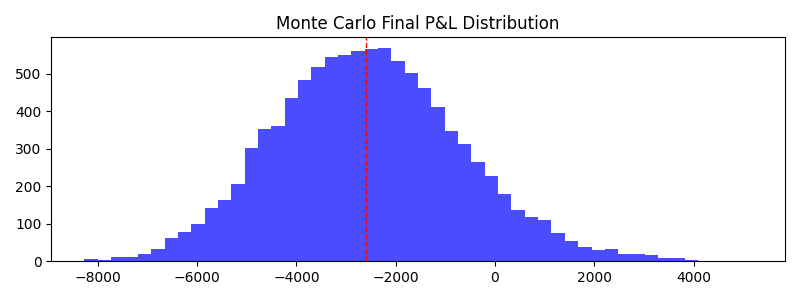
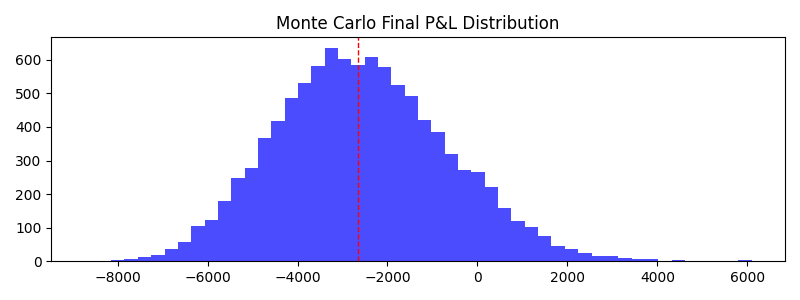
refactor: restructure codebase into python modules for readability

diff --git a/refactor.py b/refactor.py
@@ -1,0 +1,51 @@
+import os
+import shutil
+from pathlib import Path
+
+dirs = ["src/core", "src/free_tier", "src/tier1_edge", "src/tier2_pattern", "src/tier3_coaching", "src/reports", "data"]
+for d in dirs:
+    os.makedirs(d, exist_ok=True)
+    Path(f"{d}/__init__.py").touch()
+Path("src/__init__.py").touch()
+
+try: shutil.move("data.txt", "data/data.txt")
+except: pass
+try: shutil.move("rules.json", "data/rules.json")
+except: pass
+
+mapping = {
+    "load_trades.py": "src/core/load_trades.py",
+    "free_pnl_summary.py": "src/free_tier/pnl_summary.py",
+    "free_direction_split.py": "src/free_tier/direction_split.py",
+    "free_session_heatmap.py": "src/free_tier/session_heatmap.py",
+    "t1_hold_time.py": "src/tier1_edge/hold_time.py",
+    "t1_entry_quality.py": "src/tier1_edge/entry_quality.py",
+    "t1_streaks.py": "src/tier1_edge/streaks.py",
+    "t2_setup_detector.py": "src/tier2_pattern/setup_detector.py",
+    "t2_tilt_detection.py": "src/tier2_pattern/tilt_detection.py",
+    "t2_weekly_digest.py": "src/tier2_pattern/weekly_digest.py",
+    "t3_regime.py": "src/tier3_coaching/regime.py",
+    "t3_monte_carlo.py": "src/tier3_coaching/monte_carlo.py",
+    "t3_rule_alerts.py": "src/tier3_coaching/rule_alerts.py",
+    "generate_report.py": "src/reports/generate_report.py",
+    "generate_full_report.py": "src/reports/generate_full_report.py"
+}
+
+import_block = """import sys
+import os
+sys.path.append(os.path.dirname(os.path.dirname(os.path.abspath(__file__))))
+from core.load_trades import load_and_preprocess_data"""
+
+for src_file, dest_file in mapping.items():
+    if not os.path.exists(src_file): continue
+    
+    with open(src_file, "r") as f:
+        content = f.read()
+        
+    if "load_trades" in content and src_file != "load_trades.py":
+        content = content.replace("from load_trades import load_and_preprocess_data", import_block)
+        
+    with open(dest_file, "w") as f:
+        f.write(content)
+        
+    os.remove(src_file)

diff --git a/master_report.tex b/master_report.tex
@@ -171,8 +171,8 @@ Simulating 10,000 paths of 100 trades based on your historical P\&L distribution
 
 \vspace{0.5em}
 \begin{tabular}{l l l l}
-\textbf{Median Final P\&L:} & \$-2599.93 & \textbf{5th Percentile:} & \$-5515.86 \\
-\textbf{95th Percentile:} & \$678.32 & \textbf{Prob of Ruin:} & \textbf{\color{badred}91.6\%} \\
+\textbf{Median Final P\&L:} & \$-2649.35 & \textbf{5th Percentile:} & \$-5543.41 \\
+\textbf{95th Percentile:} & \$702.38 & \textbf{Prob of Ruin:} & \textbf{\color{badred}91.6\%} \\
 \end{tabular}
 \begin{center}
 \includegraphics[width=0.75\textwidth]{monte_carlo.png}

diff --git a/src/reports/generate_full_report.py b/src/reports/generate_full_report.py
@@ -4,7 +4,10 @@ import pandas as pd
 import numpy as np
 import seaborn as sns
 import matplotlib.pyplot as plt
-from load_trades import load_and_preprocess_data
+import sys
+import os
+sys.path.append(os.path.dirname(os.path.dirname(os.path.abspath(__file__))))
+from core.load_trades import load_and_preprocess_data
 import jinja2
 import subprocess
 import os

diff --git a/src/free_tier/session_heatmap.py b/src/free_tier/session_heatmap.py
@@ -2,7 +2,10 @@ import argparse
 import pandas as pd
 import seaborn as sns
 import matplotlib.pyplot as plt
-from load_trades import load_and_preprocess_data
+import sys
+import os
+sys.path.append(os.path.dirname(os.path.dirname(os.path.abspath(__file__))))
+from core.load_trades import load_and_preprocess_data
 from tabulate import tabulate
 
 def main():

diff --git a/src/tier3_coaching/monte_carlo.py b/src/tier3_coaching/monte_carlo.py
@@ -2,7 +2,10 @@ import argparse
 import pandas as pd
 import numpy as np
 import matplotlib.pyplot as plt
-from load_trades import load_and_preprocess_data
+import sys
+import os
+sys.path.append(os.path.dirname(os.path.dirname(os.path.abspath(__file__))))
+from core.load_trades import load_and_preprocess_data
 from tabulate import tabulate
 
 def main():

diff --git a/src/tier3_coaching/regime.py b/src/tier3_coaching/regime.py
@@ -1,6 +1,9 @@
 import argparse
 import pandas as pd
-from load_trades import load_and_preprocess_data
+import sys
+import os
+sys.path.append(os.path.dirname(os.path.dirname(os.path.abspath(__file__))))
+from core.load_trades import load_and_preprocess_data
 from tabulate import tabulate
 
 def classify_regime(sdf, all_time_variance):

diff --git a/src/tier1_edge/streaks.py b/src/tier1_edge/streaks.py
@@ -1,6 +1,9 @@
 import argparse
 import pandas as pd
-from load_trades import load_and_preprocess_data
+import sys
+import os
+sys.path.append(os.path.dirname(os.path.dirname(os.path.abspath(__file__))))
+from core.load_trades import load_and_preprocess_data
 from tabulate import tabulate
 
 def get_streaks(is_winner_series):

diff --git a/src/tier3_coaching/rule_alerts.py b/src/tier3_coaching/rule_alerts.py
@@ -1,7 +1,10 @@
 import argparse
 import json
 import pandas as pd
-from load_trades import load_and_preprocess_data
+import sys
+import os
+sys.path.append(os.path.dirname(os.path.dirname(os.path.abspath(__file__))))
+from core.load_trades import load_and_preprocess_data
 from tabulate import tabulate
 
 def main():

diff --git a/src/tier2_pattern/tilt_detection.py b/src/tier2_pattern/tilt_detection.py
@@ -1,6 +1,9 @@
 import argparse
 import pandas as pd
-from load_trades import load_and_preprocess_data
+import sys
+import os
+sys.path.append(os.path.dirname(os.path.dirname(os.path.abspath(__file__))))
+from core.load_trades import load_and_preprocess_data
 
 def main():
     parser = argparse.ArgumentParser()

diff --git a/src/tier2_pattern/weekly_digest.py b/src/tier2_pattern/weekly_digest.py
@@ -1,6 +1,9 @@
 import argparse
 import pandas as pd
-from load_trades import load_and_preprocess_data
+import sys
+import os
+sys.path.append(os.path.dirname(os.path.dirname(os.path.abspath(__file__))))
+from core.load_trades import load_and_preprocess_data
 
 def main():
     parser = argparse.ArgumentParser()

diff --git a/src/tier1_edge/entry_quality.py b/src/tier1_edge/entry_quality.py
@@ -1,6 +1,9 @@
 import argparse
 import pandas as pd
-from load_trades import load_and_preprocess_data
+import sys
+import os
+sys.path.append(os.path.dirname(os.path.dirname(os.path.abspath(__file__))))
+from core.load_trades import load_and_preprocess_data
 from tabulate import tabulate
 
 def main():

diff --git a/src/tier1_edge/hold_time.py b/src/tier1_edge/hold_time.py
@@ -1,6 +1,9 @@
 import argparse
 import pandas as pd
-from load_trades import load_and_preprocess_data
+import sys
+import os
+sys.path.append(os.path.dirname(os.path.dirname(os.path.abspath(__file__))))
+from core.load_trades import load_and_preprocess_data
 from tabulate import tabulate
 
 def main():
